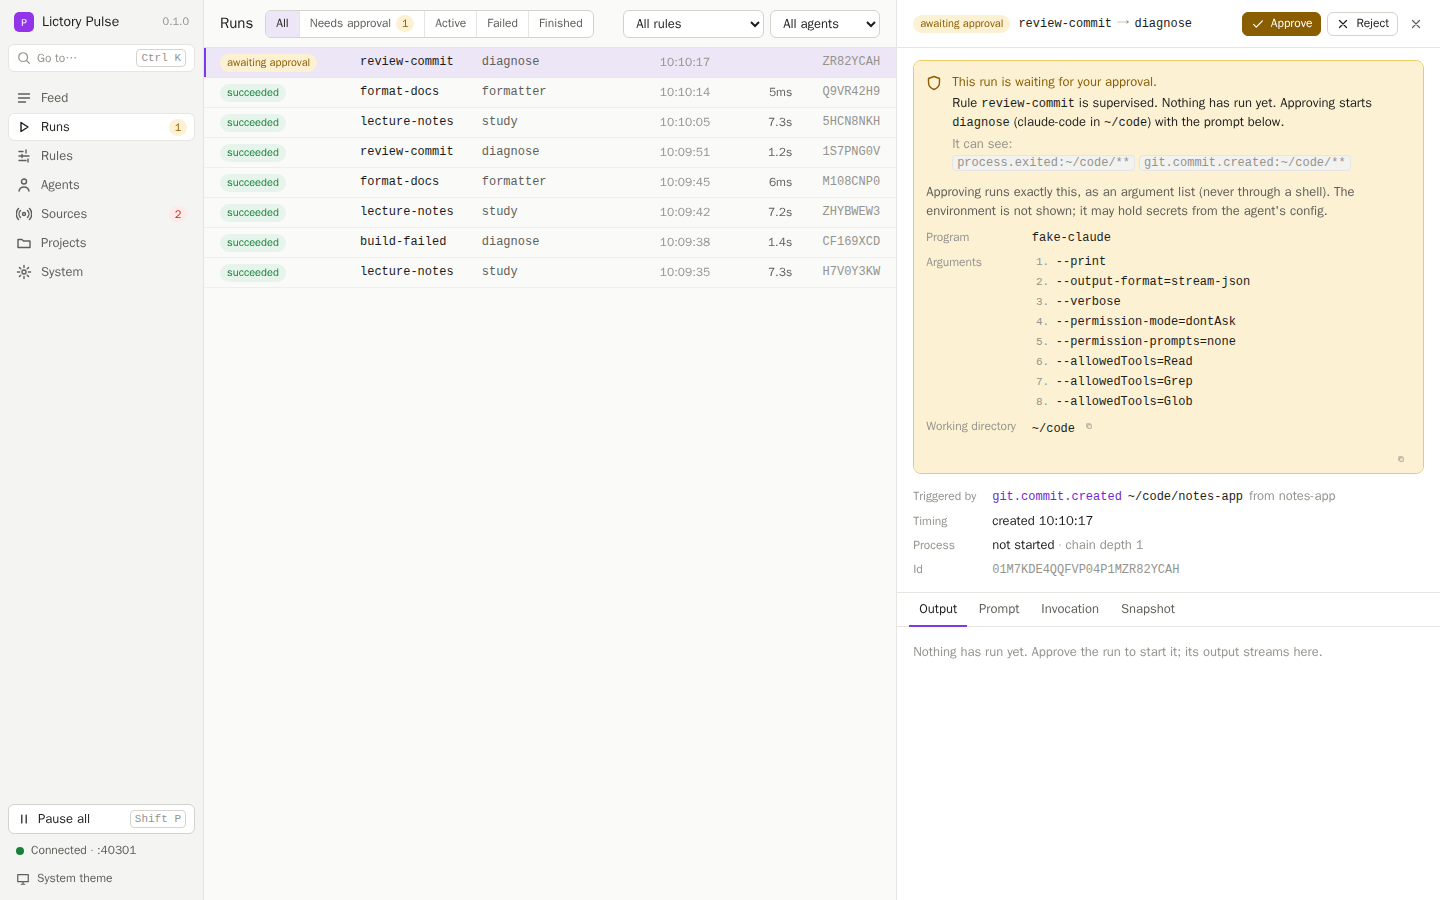
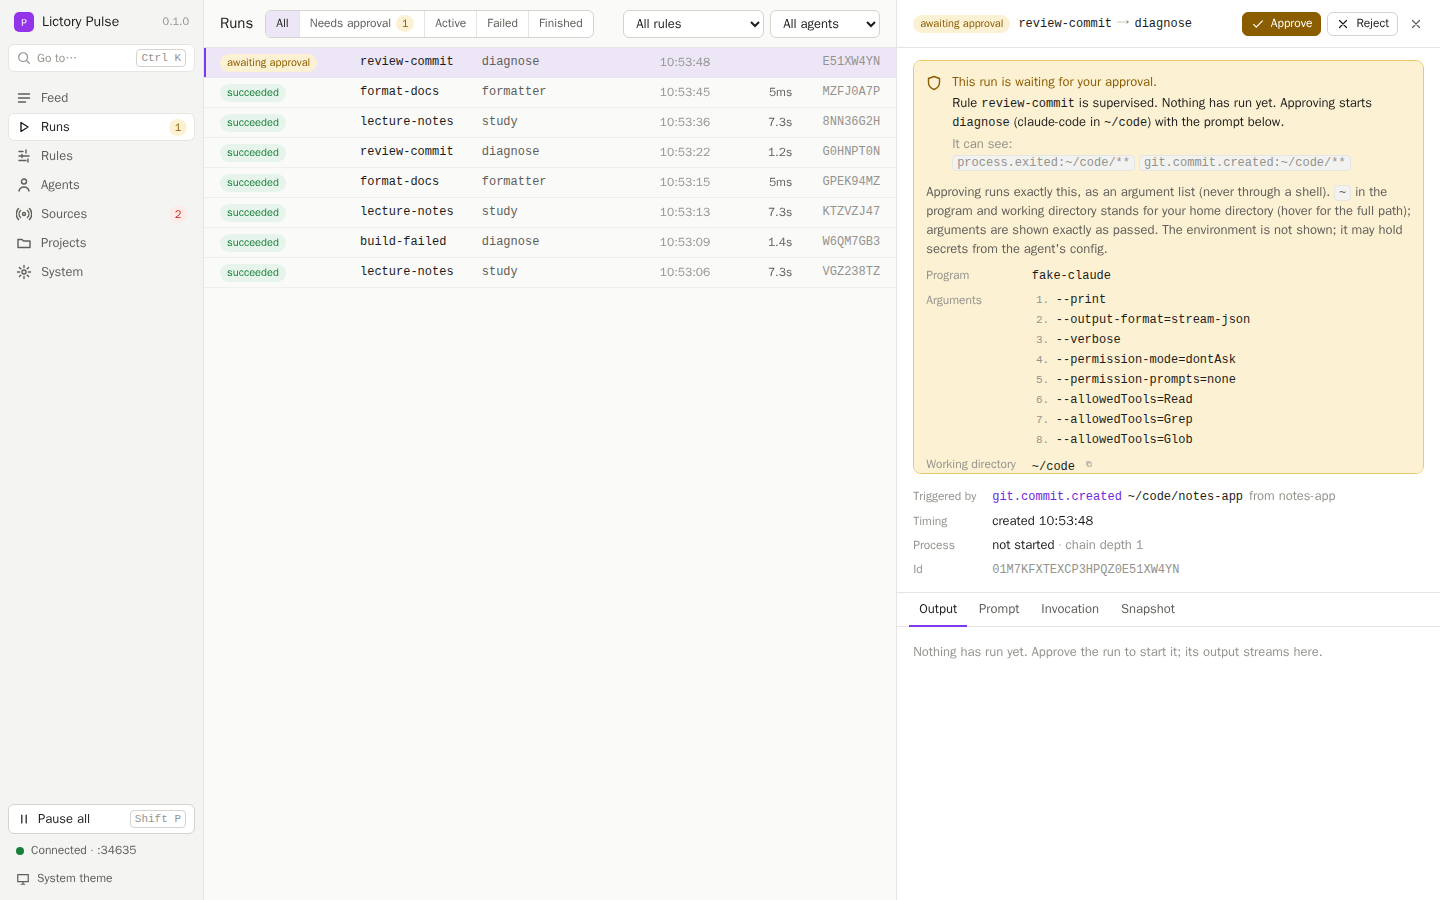
Documentation images regenerated after the feed, path and review fixes
The feed's markers now say what became of each delivery (the approved
review-commit reads succeeded), paths are cut with an ellipsis in the
desktop window, the Runs list shows a running run's elapsed time at the
clock's precision, the trust review shows where the agent runs, the event
detail explains a command agent's inferred cause, and the Cooldown field reads
"e.g. 30s". The README's feed alt text and caption, and the trust review's
alt text, say what the images now show.

diff --git a/README.md b/README.md
@@ -32,12 +32,13 @@ development machine.
 
 <picture>
   <source media="(prefers-color-scheme: dark)" srcset="docs/images/feed-dark.png">
-  <img alt="The Lictory Pulse feed: file, git and process events, each tagged with what it caused, such as 'lecture-notes fired', 'review-commit awaiting approval', 'build-failed cooldown' and 'format-docs loop: own run'; the summaries and flashcards an agent wrote are marked 'by agent'" src="docs/images/feed-light.png">
+  <img alt="The Lictory Pulse feed: file, git and process events, each tagged with what became of it, such as 'lecture-notes succeeded', 'review-commit awaiting approval' next to an earlier 'review-commit succeeded', 'build-failed cooldown' and 'format-docs loop: own run'; the summaries and flashcards an agent wrote are marked 'by agent'" src="docs/images/feed-light.png">
 </picture>
 
-*The feed. Each event shows what it caused: a rule that fired, one waiting for your approval, one
-held by its debounce or cooldown, and (orange) a rule that loop protection stopped from reacting
-to its own run's output. Files an agent wrote are marked **by agent** (with a `?` where Pulse
+*The feed. Each event shows what it caused and what became of it: a run that succeeded, one
+waiting for your approval (the commit before it was approved and its run succeeded), a rule held
+by its cooldown or disabled, and (orange) a rule that loop protection stopped from reacting to
+its own run's output. Files an agent wrote are marked **by agent** (with a `?` where Pulse
 infers it). The screenshots show a fictional home directory and the stand-in agents Pulse's
 tests use; `pnpm --dir apps/web docs:images` makes them.*
 

diff --git a/docs/user/projects.md b/docs/user/projects.md
@@ -34,7 +34,7 @@ dialog is open, the button trusts nothing and the dialog shows the new content i
 
 <picture>
   <source media="(prefers-color-scheme: dark)" srcset="../images/trust-review-dark.png">
-  <img alt="The review before trusting ~/code/notes-app/pulse.toml: the agent lint with its command argument by argument, its scope and working directory; the rule lint-on-commit, which runs it on every commit without asking; and the Cancel and Trust this content buttons" src="../images/trust-review-light.png">
+  <img alt="The review before trusting ~/code/notes-app/pulse.toml: the agent lint with its command argument by argument, its scope, and the directory it would run in, ~/code/notes-app (. in the file); the rule lint-on-commit, which runs it on every commit without asking; and the Cancel and Trust this content buttons" src="../images/trust-review-light.png">
 </picture>
 
 *Reviewing a repository's `pulse.toml` before trusting it: what each agent would run, argument by
